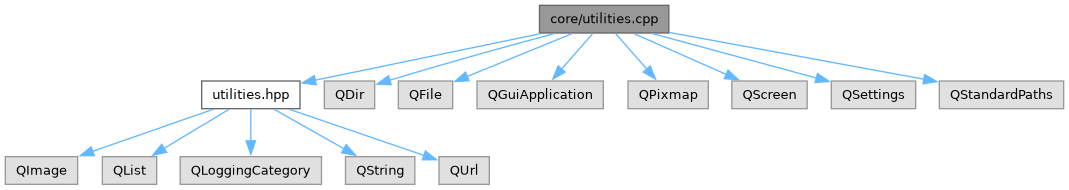
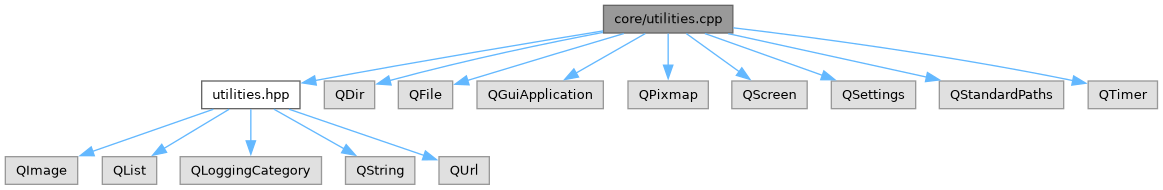
deploy: 5da0d3622a5a4638a4e3c908e34a0ded2fa251fa

diff --git a/utilities_8hpp_source.html b/utilities_8hpp_source.html
@@ -160,14 +160,14 @@ $(function(){initNavTree('utilities_8hpp_source.html','',''); });
 <div class="line"><a id="l00156" name="l00156"></a><span class="lineno">  156</span><span class="preprocessor">#endif</span></div>
 <div class="line"><a id="l00157" name="l00157"></a><span class="lineno">  157</span>};</div>
 </div>
-<div class="ttc" id="aclassUtilities_html_a2eb264806f76291f0e34196a21429e3a"><div class="ttname"><a href="classUtilities.html#a2eb264806f76291f0e34196a21429e3a">Utilities::truncateUtf8Safe</a></div><div class="ttdeci">static QString truncateUtf8Safe(const QString &amp;value, qsizetype maxCodePoints)</div><div class="ttdoc">Truncates value to at most maxCodePoints Unicode code points.</div><div class="ttdef"><b>Definition</b> utilities.cpp:43</div></div>
+<div class="ttc" id="aclassUtilities_html_a2eb264806f76291f0e34196a21429e3a"><div class="ttname"><a href="classUtilities.html#a2eb264806f76291f0e34196a21429e3a">Utilities::truncateUtf8Safe</a></div><div class="ttdeci">static QString truncateUtf8Safe(const QString &amp;value, qsizetype maxCodePoints)</div><div class="ttdoc">Truncates value to at most maxCodePoints Unicode code points.</div><div class="ttdef"><b>Definition</b> utilities.cpp:44</div></div>
 <div class="ttc" id="aclassUtilities_html_a6fcc6c62410cba290dc2f372bb1416d5"><div class="ttname"><a href="classUtilities.html#a6fcc6c62410cba290dc2f372bb1416d5">Utilities::focusedWindowTitle</a></div><div class="ttdeci">static QString focusedWindowTitle()</div><div class="ttdoc">Title of the currently focused window.</div></div>
 <div class="ttc" id="aclassUtilities_html_a7693b4dd83127e42bc92ecd929762db6"><div class="ttname"><a href="classUtilities.html#a7693b4dd83127e42bc92ecd929762db6">Utilities::autostart</a></div><div class="ttdeci">static void autostart(bool autostart=true)</div><div class="ttdoc">Registers or unregisters the application to launch at login.</div></div>
 <div class="ttc" id="aclassUtilities_html_a81bd8a89b7e558339bddac8c0965d493"><div class="ttname"><a href="classUtilities.html#a81bd8a89b7e558339bddac8c0965d493">Utilities::showNotification</a></div><div class="ttdeci">static void showNotification(const QString &amp;title, const QString &amp;message)</div><div class="ttdoc">Shows a desktop notification with title and message.</div></div>
 <div class="ttc" id="aclassUtilities_html_aa098a7198c31a355bf22951b21ad0869"><div class="ttname"><a href="classUtilities.html#aa098a7198c31a355bf22951b21ad0869">Utilities::isClockSyncEnabled</a></div><div class="ttdeci">static bool isClockSyncEnabled()</div><div class="ttdoc">Whether the OS is currently configured to automatically sync its clock (e.g. via NTP),...</div></div>
 <div class="ttc" id="aclassUtilities_html_add2daec2ff80b02ca600da10f53ef1f0"><div class="ttname"><a href="classUtilities.html#add2daec2ff80b02ca600da10f53ef1f0">Utilities::Utilities</a></div><div class="ttdeci">Utilities()=delete</div><div class="ttdoc">Deleted: Utilities is never instantiated, only used via its static members.</div></div>
 <div class="ttc" id="aclassUtilities_html_adf2d674503d459b09636d33de3e94f54"><div class="ttname"><a href="classUtilities.html#adf2d674503d459b09636d33de3e94f54">Utilities::isAutostartEnabled</a></div><div class="ttdeci">static bool isAutostartEnabled()</div><div class="ttdoc">Whether the OS is actually set up to launch the application at login.</div></div>
-<div class="ttc" id="aclassUtilities_html_afe3c841d79c4538fa3bbd3fd06a24101"><div class="ttname"><a href="classUtilities.html#afe3c841d79c4538fa3bbd3fd06a24101">Utilities::extractResourceToDisk</a></div><div class="ttdeci">static QUrl extractResourceToDisk(const QString &amp;sourcePath, const QString &amp;fileName)</div><div class="ttdoc">Copies a file (e.g. a :/ Qt resource) to a fixed path under the system temp directory,...</div><div class="ttdef"><b>Definition</b> utilities.cpp:33</div></div>
+<div class="ttc" id="aclassUtilities_html_afe3c841d79c4538fa3bbd3fd06a24101"><div class="ttname"><a href="classUtilities.html#afe3c841d79c4538fa3bbd3fd06a24101">Utilities::extractResourceToDisk</a></div><div class="ttdeci">static QUrl extractResourceToDisk(const QString &amp;sourcePath, const QString &amp;fileName)</div><div class="ttdoc">Copies a file (e.g. a :/ Qt resource) to a fixed path under the system temp directory,...</div><div class="ttdef"><b>Definition</b> utilities.cpp:34</div></div>
 </div><!-- fragment --></div><!-- contents -->
 </div><!-- doc-content -->
 </div><!-- container -->

diff --git a/utilities_8cpp.html b/utilities_8cpp.html
@@ -99,28 +99,31 @@ $(function(){initNavTree('utilities_8cpp.html','',''); });
 <code>#include &lt;QScreen&gt;</code><br />
 <code>#include &lt;QSettings&gt;</code><br />
 <code>#include &lt;QStandardPaths&gt;</code><br />
+<code>#include &lt;QTimer&gt;</code><br />
 </div><div class="textblock"><div class="dynheader">
 Include dependency graph for utilities.cpp:</div>
 <div class="dyncontent">
 <div class="center"><img src="utilities_8cpp__incl.png" border="0" usemap="#acore_2utilities_8cpp" loading="lazy" alt=""/></div>
 <map name="acore_2utilities_8cpp" id="acore_2utilities_8cpp">
-<area shape="rect" title=" " alt="" coords="540,5,669,33"/>
+<area shape="rect" title=" " alt="" coords="604,5,733,33"/>
 <area shape="rect" href="utilities_8hpp.html" title=" " alt="" coords="202,81,300,109"/>
-<area shape="poly" title=" " alt="" coords="538,35,316,83,314,78,543,33"/>
+<area shape="poly" title=" " alt="" coords="601,33,315,83,314,78,605,29"/>
 <area shape="rect" title=" " alt="" coords="324,81,375,109"/>
-<area shape="poly" title=" " alt="" coords="557,33,390,83,389,78,552,34"/>
+<area shape="poly" title=" " alt="" coords="600,33,507,55,390,83,389,78,505,50,605,32"/>
 <area shape="rect" title=" " alt="" coords="398,81,453,109"/>
-<area shape="poly" title=" " alt="" coords="575,33,468,79,466,74,570,34"/>
+<area shape="poly" title=" " alt="" coords="626,33,468,83,467,78,621,34"/>
 <area shape="rect" title=" " alt="" coords="477,81,603,109"/>
-<area shape="poly" title=" " alt="" coords="595,32,563,71,560,67,590,35"/>
+<area shape="poly" title=" " alt="" coords="648,33,577,76,575,71,643,34"/>
 <area shape="rect" title=" " alt="" coords="628,81,708,109"/>
-<area shape="poly" title=" " alt="" coords="617,31,649,70,644,68,615,36"/>
+<area shape="poly" title=" " alt="" coords="670,32,670,67,666,64,666,36"/>
 <area shape="rect" title=" " alt="" coords="732,81,807,109"/>
-<area shape="poly" title=" " alt="" coords="634,31,729,75,724,74,633,36"/>
+<area shape="poly" title=" " alt="" coords="687,31,742,72,737,71,686,36"/>
 <area shape="rect" title=" " alt="" coords="831,81,916,109"/>
-<area shape="poly" title=" " alt="" coords="653,31,819,78,814,78,652,36"/>
+<area shape="poly" title=" " alt="" coords="705,31,825,75,820,75,705,36"/>
 <area shape="rect" title=" " alt="" coords="939,81,1064,109"/>
-<area shape="poly" title=" " alt="" coords="670,30,927,79,921,80,669,35"/>
+<area shape="poly" title=" " alt="" coords="728,31,929,77,924,77,728,36"/>
+<area shape="rect" title=" " alt="" coords="1088,81,1158,109"/>
+<area shape="poly" title=" " alt="" coords="733,25,885,45,1076,81,1070,81,884,51,733,30"/>
 <area shape="rect" title=" " alt="" coords="5,157,78,184"/>
 <area shape="poly" title=" " alt="" coords="214,112,93,154,92,149,213,107"/>
 <area shape="rect" title=" " alt="" coords="102,157,157,184"/>
